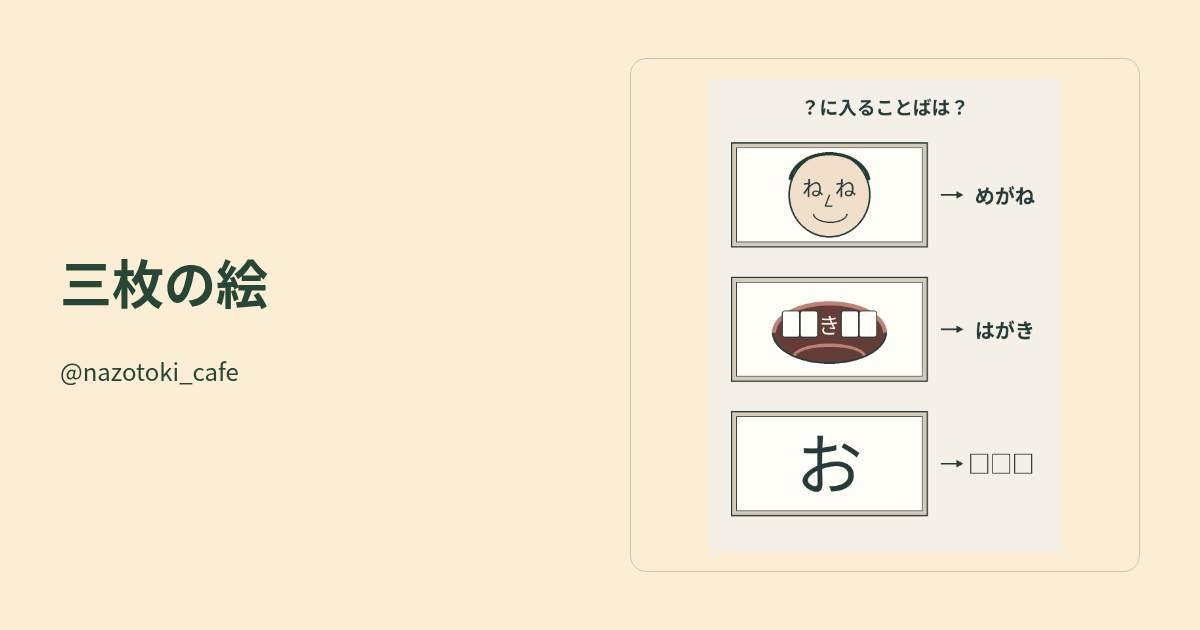
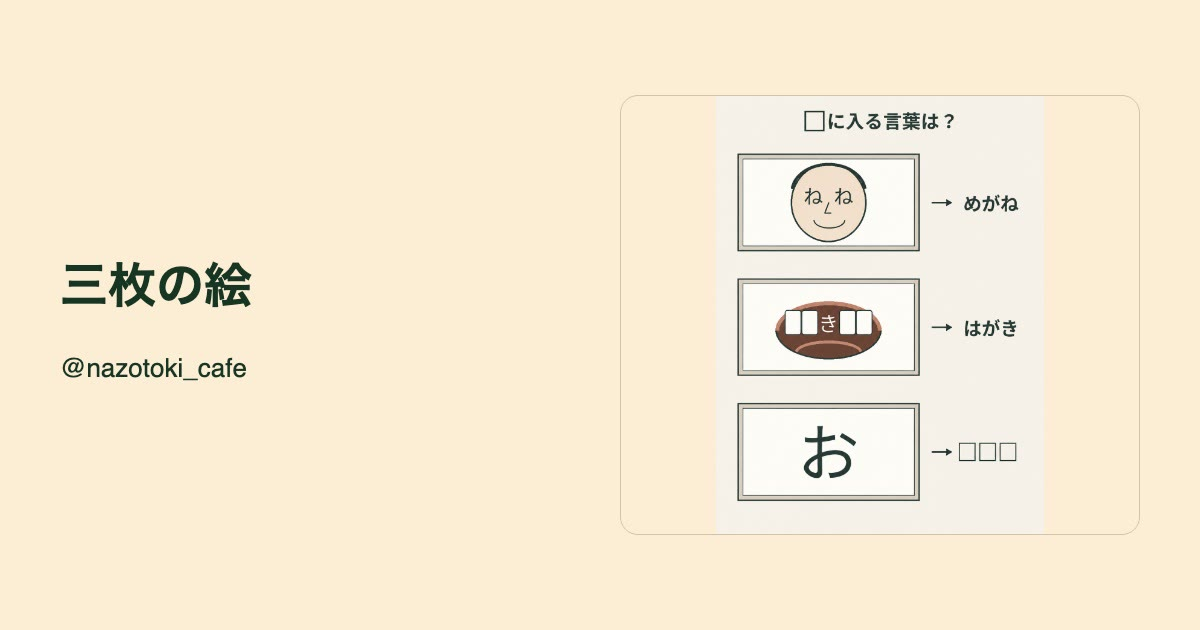
fix(three-pictures): refresh corrected square-heading share card

Changed region(s): [[0.5858, 0.1508, 0.8633, 0.8444], [0.0617, 0.3921, 0.2467, 0.5127], [0.0308, 0.573, 0.2158, 0.6032]]

diff --git a/three-pictures/index.html b/three-pictures/index.html
@@ -1,1 +1,40 @@
-<!doctype html><html lang="ja"><meta charset="utf-8"><meta name="viewport" content="width=device-width,initial-scale=1"><title>三枚の絵</title><link rel="stylesheet" href="style.css"><link rel="stylesheet" href="/assets/web-shared-cafe-fed4391e530cf730dedd6948fc82e8419bca3f97fec9679e818672da86ced657.css"><link rel="stylesheet" href="./completion.css"><link rel="canonical" href="https://games.escape-safari.com/three-pictures/"><meta name="robots" content="noindex, nofollow, noarchive, noimageindex"><meta property="og:type" content="website"><meta property="og:locale" content="ja_JP"><meta property="og:title" content="三枚の絵"><meta property="og:url" content="https://games.escape-safari.com/three-pictures/"><meta property="og:image" content="https://games.escape-safari.com/assets/og-nazo-20261031-turn-letter.jpg"><meta property="og:image:width" content="1200"><meta property="og:image:height" content="630"><meta property="og:image:alt" content="三枚の絵"><meta name="twitter:card" content="summary_large_image"><meta name="twitter:title" content="三枚の絵"><meta name="twitter:image" content="https://games.escape-safari.com/assets/og-nazo-20261031-turn-letter.jpg"><meta name="twitter:image:alt" content="三枚の絵"><link rel="stylesheet" href="/assets/web-shared-game-fa5572eb62e6ee0bc261237e696ca3df507e430b6d3ee5529271768effc4fffc.css"><link rel="license" href="/assets/web-shared-notice-408c3bfb606f377d2a9feb7ab0462cc8eaba77b72f69ca7c8c95164965d5f59c.txt"></head><body class="cafe-page bg-paper text-ink" data-game="nazo-20261031-turn-letter"><aside id="web-loading" aria-label="ゲームの読み込み"><p id="web-loading-message" role="status" aria-live="polite">ゲームの準備中です。表示・操作が始まらない場合は、通信状態を確認して再読み込みしてください。</p><a href="" id="web-retry">再読み込み</a><noscript><p>このゲームを遊ぶにはJavaScriptを有効にしてください。</p></noscript></aside><div id="web-game-root"></div><template id="web-initial"><link rel="preload" as="image" href="./assets/nazo-20261031-turn-letter.webp?v=1cf2b667c639cae1052619aee19f331c2facfca9d7f7bb5e816284a20d37ac6a"/><section aria-label="操作メッセージ" tabindex="-1" aria-live="polite" aria-relevant="additions text" aria-atomic="false" data-react-aria-top-layer="true"></section><main class="react-game" data-engine="react-typescript" data-won="false" data-actions="0"><h1 class="">三枚の絵</h1><a href="./assets/nazo-20261031-turn-letter.webp?v=1cf2b667c639cae1052619aee19f331c2facfca9d7f7bb5e816284a20d37ac6a"><img class="puzzle" src="./assets/nazo-20261031-turn-letter.webp?v=1cf2b667c639cae1052619aee19f331c2facfca9d7f7bb5e816284a20d37ac6a" alt="三枚の絵の問題。⬜に入る言葉は？ タップで拡大"/></a><form id="answer-form" noValidate=""><div><label for="answer">答え</label><input id="answer" autoComplete="off" aria-describedby="feedback" name="answer" value=""/></div><button type="submit" class="book-button">答え合わせ</button></form><p id="feedback" class="operation-description" aria-hidden="true"></p><button type="button" id="reset" class="book-button">最初から</button><details><summary>ヒント1</summary><p>例の絵で、普通と違うところを短い言葉にしてみよう。</p></details><details><summary>ヒント2</summary><p>最初は「目がね」、次は「歯がき」。</p></details><details><summary>ヒント3</summary><p>最後は部分ではなく、額の中の絵全体を言い表す。</p></details><details><summary>正解と解説を見る</summary><p>えがお。「目がね」「歯がき」。最後は、絵そのものが「お」です。</p></details></main></template><template id="web-completed"><link rel="preload" as="image" href="./assets/nazo-20261031-turn-letter.webp?v=1cf2b667c639cae1052619aee19f331c2facfca9d7f7bb5e816284a20d37ac6a"/><section aria-label="操作メッセージ" tabindex="-1" aria-live="polite" aria-relevant="additions text" aria-atomic="false" data-react-aria-top-layer="true"></section><main class="react-game" data-engine="react-typescript" data-won="false" data-actions="0" data-completion-view="true"><h1 class="">三枚の絵</h1><a href="./assets/nazo-20261031-turn-letter.webp?v=1cf2b667c639cae1052619aee19f331c2facfca9d7f7bb5e816284a20d37ac6a"><img class="puzzle" src="./assets/nazo-20261031-turn-letter.webp?v=1cf2b667c639cae1052619aee19f331c2facfca9d7f7bb5e816284a20d37ac6a" alt="三枚の絵の問題。⬜に入る言葉は？ タップで拡大"/></a><form id="answer-form" noValidate=""><div><label for="answer">答え</label><input id="answer" autoComplete="off" aria-describedby="feedback" name="answer" value=""/></div><button type="submit" class="book-button">答え合わせ</button></form><p id="feedback" class="operation-description" aria-hidden="true"></p><button type="button" id="reset" class="book-button">最初から</button><details><summary>ヒント1</summary><p>例の絵で、普通と違うところを短い言葉にしてみよう。</p></details><details><summary>ヒント2</summary><p>最初は「目がね」、次は「歯がき」。</p></details><details><summary>ヒント3</summary><p>最後は部分ではなく、額の中の絵全体を言い表す。</p></details><details><summary>正解と解説を見る</summary><p>えがお。「目がね」「歯がき」。最後は、絵そのものが「お」です。</p></details><section class="completion-screen completion-actions" aria-label="クリア後の操作"><a id="share-clear" class="completion-share" href="https://twitter.com/intent/tweet?text=%E3%80%8C%E4%B8%89%E6%9E%9A%E3%81%AE%E7%B5%B5%E3%80%8D%E3%82%92%E3%82%AF%E3%83%AA%E3%82%A2%E3%81%97%E3%81%BE%E3%81%97%E3%81%9F%EF%BC%81+%23Web%E8%AC%8E&amp;url=https%3A%2F%2Fgames.escape-safari.com%2Fthree-pictures%2F" target="_blank" rel="noopener noreferrer" title="Xの投稿画面を開く">Xで共有</a><button type="button" class="completion-retry">もう一度遊ぶ</button><div class="completion-credits"><a class="creator-credit" href="https://x.com/nazotoki_cafe" target="_blank" rel="noopener noreferrer">制作元 @nazotoki_cafe</a><div class="related-work"><span>体験型作品</span><a href="https://nazohiroba.com/mysteries/kJ1Jo9DWFjUNjzZimHBxbq" target="_blank" rel="noopener noreferrer" title="ブックカフェからの脱出">ナゾヒロバ</a></div></div></section><dialog data-kind="clear" class="completion-screen completion-dialog" aria-labelledby="_R_a_-title" aria-describedby="_R_a_-message"><button type="button" class="completion-close">閉じる</button><div class="completion-announcement"><svg class="completion-seal" viewBox="0 0 64 64" aria-hidden="true"><circle cx="32" cy="32" r="29"></circle><path d="m18 33 9 9 20-22"></path></svg><h2 id="_R_a_-title" tabindex="-1">おめでとうございます！</h2><p id="_R_a_-message">クリアしました！</p></div><a class="completion-share" href="https://twitter.com/intent/tweet?text=%E3%80%8C%E4%B8%89%E6%9E%9A%E3%81%AE%E7%B5%B5%E3%80%8D%E3%82%92%E3%82%AF%E3%83%AA%E3%82%A2%E3%81%97%E3%81%BE%E3%81%97%E3%81%9F%EF%BC%81+%23Web%E8%AC%8E&amp;url=https%3A%2F%2Fgames.escape-safari.com%2Fthree-pictures%2F" target="_blank" rel="noopener noreferrer" title="Xの投稿画面を開く">Xで共有</a><button type="button" class="completion-retry">もう一度遊ぶ</button></dialog></main></template><script defer src="/assets/web-shared-start-2cc617c7e3c968b5d668c761807ddfae94cb77c410ef1038fe6e12509160a0d2.js?v=2cc617c7e3c968b5d668c761807ddfae94cb77c410ef1038fe6e12509160a0d2"></script><script id="web-game-runtime" type="module" src="/assets/web-route-nazo-20261031-turn-letter-32762e69484e364dd969c27b27c21c32580bcce565722a7e7190801aa8734ac2.js?v=32762e69484e364dd969c27b27c21c32580bcce565722a7e7190801aa8734ac2"></script></body></html>
+<!doctype html>
+<html lang="ja">
+  <head>
+    <meta charset="utf-8" />
+    <meta name="viewport" content="width=device-width,initial-scale=1" />
+    <title>三枚の絵</title>
+    <link rel="stylesheet" href="style.css" />
+    <!-- Exact marker consumed by withWebScreens. -->
+    <!-- prettier-ignore -->
+    <link rel="stylesheet" href="/assets/web-shared-cafe-fed4391e530cf730dedd6948fc82e8419bca3f97fec9679e818672da86ced657.css">
+    <link rel="stylesheet" href="./completion.css" />
+    <link rel="canonical" href="https://games.escape-safari.com/three-pictures/" />
+    <meta name="robots" content="noindex, nofollow, noarchive, noimageindex" />
+    <meta property="og:type" content="website" />
+    <meta property="og:locale" content="ja_JP" />
+    <meta property="og:title" content="三枚の絵" />
+    <meta property="og:url" content="https://games.escape-safari.com/three-pictures/" />
+    <meta
+      property="og:image"
+      content="https://games.escape-safari.com/assets/og-nazo-20261031-turn-letter.jpg?v=6a5173bb6f84e56415549baba169dab6ab15313819d19a3e5bb3c9a9cad15482"
+    />
+    <meta property="og:image:width" content="1200" />
+    <meta property="og:image:height" content="630" />
+    <meta property="og:image:alt" content="三枚の絵" />
+    <meta name="twitter:card" content="summary_large_image" />
+    <meta name="twitter:title" content="三枚の絵" />
+    <meta
+      name="twitter:image"
+      content="https://games.escape-safari.com/assets/og-nazo-20261031-turn-letter.jpg?v=6a5173bb6f84e56415549baba169dab6ab15313819d19a3e5bb3c9a9cad15482"
+    />
+    <meta name="twitter:image:alt" content="三枚の絵" />
+    <!-- Exact marker consumed by withWebScreens. -->
+    <!-- prettier-ignore -->
+    <link rel="stylesheet" href="/assets/web-shared-game-fa5572eb62e6ee0bc261237e696ca3df507e430b6d3ee5529271768effc4fffc.css">
+  <link rel="license" href="/assets/web-shared-notice-408c3bfb606f377d2a9feb7ab0462cc8eaba77b72f69ca7c8c95164965d5f59c.txt"></head>
+  <body class="cafe-page bg-paper text-ink" data-game="nazo-20261031-turn-letter">
+    <aside id="web-loading" aria-label="ゲームの読み込み"><p id="web-loading-message" role="status" aria-live="polite">ゲームの準備中です。表示・操作が始まらない場合は、通信状態を確認して再読み込みしてください。</p><a href="" id="web-retry">再読み込み</a><noscript><p>このゲームを遊ぶにはJavaScriptを有効にしてください。</p></noscript></aside><div id="web-game-root"></div><template id="web-initial"><link rel="preload" as="image" href="./assets/nazo-20261031-turn-letter.webp?v=1cf2b667c639cae1052619aee19f331c2facfca9d7f7bb5e816284a20d37ac6a"/><section aria-label="操作メッセージ" tabindex="-1" aria-live="polite" aria-relevant="additions text" aria-atomic="false" data-react-aria-top-layer="true"></section><main class="react-game" data-engine="react-typescript" data-won="false" data-actions="0"><h1 class="">三枚の絵</h1><a href="./assets/nazo-20261031-turn-letter.webp?v=1cf2b667c639cae1052619aee19f331c2facfca9d7f7bb5e816284a20d37ac6a"><img class="puzzle" src="./assets/nazo-20261031-turn-letter.webp?v=1cf2b667c639cae1052619aee19f331c2facfca9d7f7bb5e816284a20d37ac6a" alt="三枚の絵の問題。⬜に入る言葉は？ タップで拡大"/></a><form id="answer-form" noValidate=""><div><label for="answer">答え</label><input id="answer" autoComplete="off" aria-describedby="feedback" name="answer" value=""/></div><button type="submit" class="book-button">答え合わせ</button></form><p id="feedback" class="operation-description" aria-hidden="true"></p><button type="button" id="reset" class="book-button">最初から</button><details><summary>ヒント1</summary><p>例の絵で、普通と違うところを短い言葉にしてみよう。</p></details><details><summary>ヒント2</summary><p>最初は「目がね」、次は「歯がき」。</p></details><details><summary>ヒント3</summary><p>最後は部分ではなく、額の中の絵全体を言い表す。</p></details><details><summary>正解と解説を見る</summary><p>えがお。「目がね」「歯がき」。最後は、絵そのものが「お」です。</p></details></main></template><template id="web-completed"><link rel="preload" as="image" href="./assets/nazo-20261031-turn-letter.webp?v=1cf2b667c639cae1052619aee19f331c2facfca9d7f7bb5e816284a20d37ac6a"/><section aria-label="操作メッセージ" tabindex="-1" aria-live="polite" aria-relevant="additions text" aria-atomic="false" data-react-aria-top-layer="true"></section><main class="react-game" data-engine="react-typescript" data-won="false" data-actions="0" data-completion-view="true"><h1 class="">三枚の絵</h1><a href="./assets/nazo-20261031-turn-letter.webp?v=1cf2b667c639cae1052619aee19f331c2facfca9d7f7bb5e816284a20d37ac6a"><img class="puzzle" src="./assets/nazo-20261031-turn-letter.webp?v=1cf2b667c639cae1052619aee19f331c2facfca9d7f7bb5e816284a20d37ac6a" alt="三枚の絵の問題。⬜に入る言葉は？ タップで拡大"/></a><form id="answer-form" noValidate=""><div><label for="answer">答え</label><input id="answer" autoComplete="off" aria-describedby="feedback" name="answer" value=""/></div><button type="submit" class="book-button">答え合わせ</button></form><p id="feedback" class="operation-description" aria-hidden="true"></p><button type="button" id="reset" class="book-button">最初から</button><details><summary>ヒント1</summary><p>例の絵で、普通と違うところを短い言葉にしてみよう。</p></details><details><summary>ヒント2</summary><p>最初は「目がね」、次は「歯がき」。</p></details><details><summary>ヒント3</summary><p>最後は部分ではなく、額の中の絵全体を言い表す。</p></details><details><summary>正解と解説を見る</summary><p>えがお。「目がね」「歯がき」。最後は、絵そのものが「お」です。</p></details><section class="completion-screen completion-actions" aria-label="クリア後の操作"><a id="share-clear" class="completion-share" href="https://twitter.com/intent/tweet?text=%E3%80%8C%E4%B8%89%E6%9E%9A%E3%81%AE%E7%B5%B5%E3%80%8D%E3%82%92%E3%82%AF%E3%83%AA%E3%82%A2%E3%81%97%E3%81%BE%E3%81%97%E3%81%9F%EF%BC%81+%23Web%E8%AC%8E&amp;url=https%3A%2F%2Fgames.escape-safari.com%2Fthree-pictures%2F" target="_blank" rel="noopener noreferrer" title="Xの投稿画面を開く">Xで共有</a><button type="button" class="completion-retry">もう一度遊ぶ</button><div class="completion-credits"><a class="creator-credit" href="https://x.com/nazotoki_cafe" target="_blank" rel="noopener noreferrer">制作元 @nazotoki_cafe</a><div class="related-work"><span>体験型作品</span><a href="https://nazohiroba.com/mysteries/kJ1Jo9DWFjUNjzZimHBxbq" target="_blank" rel="noopener noreferrer" title="ブックカフェからの脱出">ナゾヒロバ</a></div></div></section><dialog data-kind="clear" class="completion-screen completion-dialog" aria-labelledby="_R_a_-title" aria-describedby="_R_a_-message"><button type="button" class="completion-close">閉じる</button><div class="completion-announcement"><svg class="completion-seal" viewBox="0 0 64 64" aria-hidden="true"><circle cx="32" cy="32" r="29"></circle><path d="m18 33 9 9 20-22"></path></svg><h2 id="_R_a_-title" tabindex="-1">おめでとうございます！</h2><p id="_R_a_-message">クリアしました！</p></div><a class="completion-share" href="https://twitter.com/intent/tweet?text=%E3%80%8C%E4%B8%89%E6%9E%9A%E3%81%AE%E7%B5%B5%E3%80%8D%E3%82%92%E3%82%AF%E3%83%AA%E3%82%A2%E3%81%97%E3%81%BE%E3%81%97%E3%81%9F%EF%BC%81+%23Web%E8%AC%8E&amp;url=https%3A%2F%2Fgames.escape-safari.com%2Fthree-pictures%2F" target="_blank" rel="noopener noreferrer" title="Xの投稿画面を開く">Xで共有</a><button type="button" class="completion-retry">もう一度遊ぶ</button></dialog></main></template>
+    <script defer src="/assets/web-shared-start-2cc617c7e3c968b5d668c761807ddfae94cb77c410ef1038fe6e12509160a0d2.js?v=2cc617c7e3c968b5d668c761807ddfae94cb77c410ef1038fe6e12509160a0d2"></script><script id="web-game-runtime" type="module" src="/assets/web-route-nazo-20261031-turn-letter-32762e69484e364dd969c27b27c21c32580bcce565722a7e7190801aa8734ac2.js?v=32762e69484e364dd969c27b27c21c32580bcce565722a7e7190801aa8734ac2"></script>
+  </body>
+</html>
